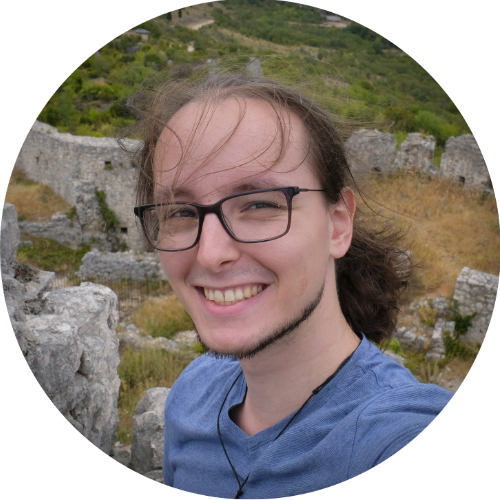
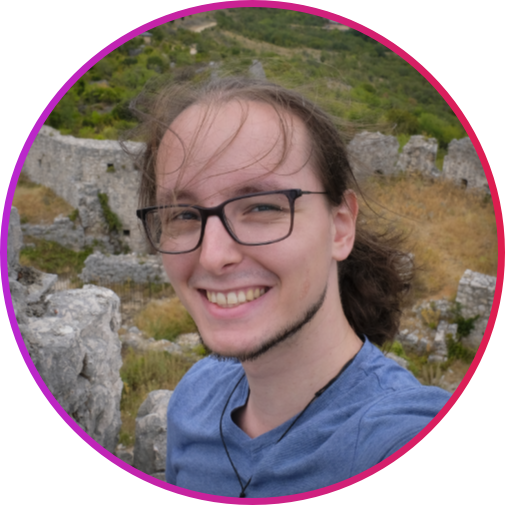
~ adapt portrait to fit theme better * link-btn also colored when focusing

diff --git a/src/views/About.vue b/src/views/About.vue
@@ -49,8 +49,16 @@
         <p>
           <b>Hiking</b>
           <span class="text-subtle">
-            is the best way to wind-down, especially after months of being inside a big city. I try to go hiking almost
+            is the best way to wind-down, especially after months of being in a big city. I try to go hiking almost
             every day in the summer when I'm in Salzburg.
+          </span>
+        </p>
+
+        <p>
+          <b>CSS</b>
+          <span class="text-subtle">
+            is one of the least-bad standard web technologies, and I love learning new stuff about it. Especially
+            trying to overcome some weird limitation in my own way is really fun!
           </span>
         </p>
       </div>

diff --git a/src/theme/theme-default.less b/src/theme/theme-default.less
@@ -159,8 +159,11 @@ button {
     transition: background-color @transitionDur;
   }
 
-  &:hover:before  {
-    background-color: transparent;
+  &:focus,
+  &:hover {
+    &:before  {
+      background-color: transparent;
+    }
   }
 
   .btn-icon {
